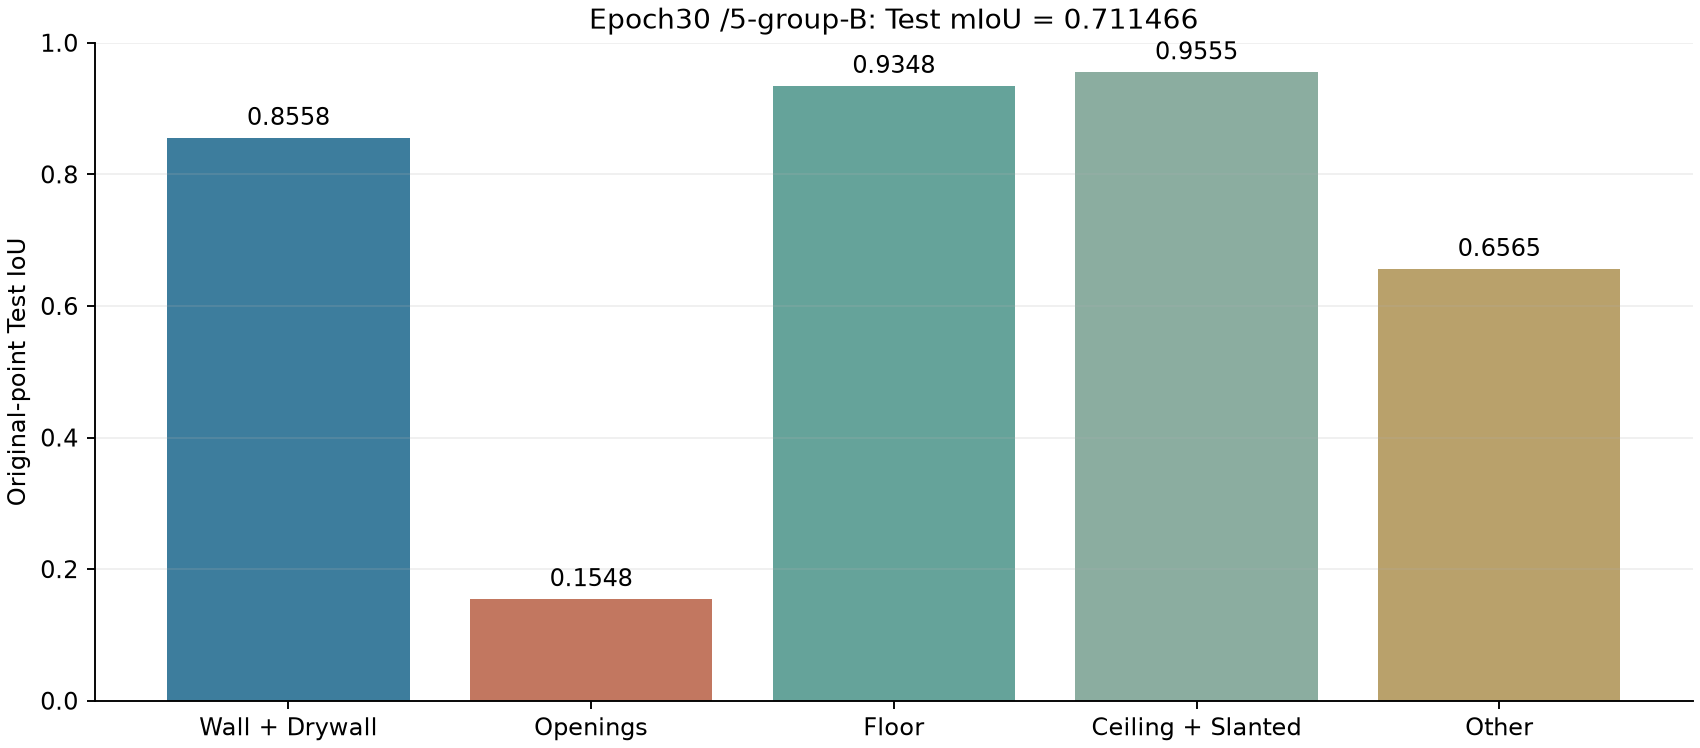
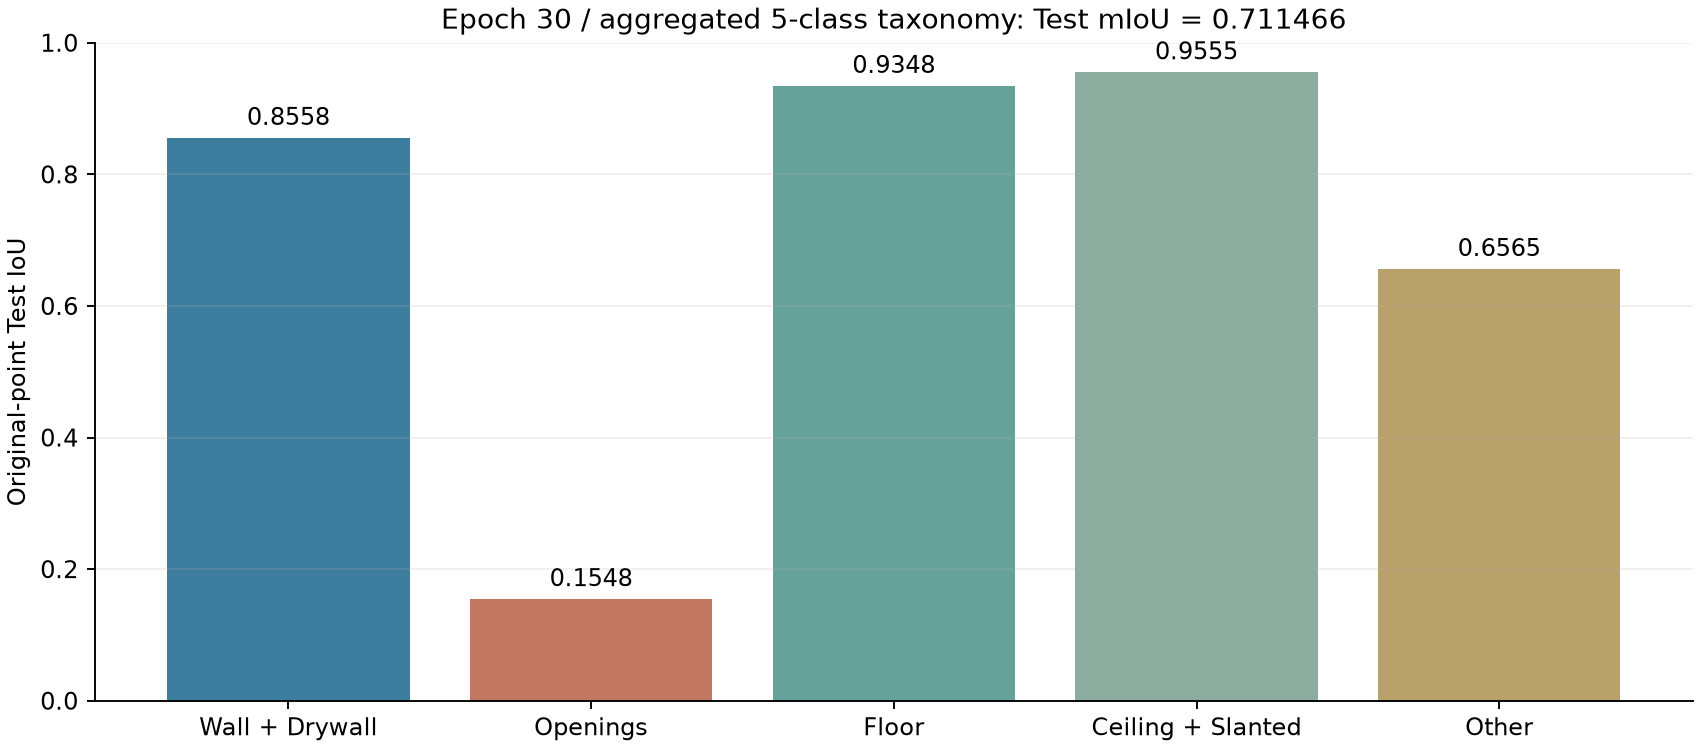
Name the evaluation taxonomy aggregated 5-class throughout the release

Changed region(s): [[0.2494, 0.0, 0.8106, 0.0615]]

diff --git a/README.md b/README.md
@@ -1,6 +1,6 @@
 # Construction Robot Work-Surface Recognition
 
-Semantic segmentation of construction-site point clouds for identifying work surfaces and exclusion regions for **plastering and painting robots**. The published checkpoint is **epoch 30**, evaluated with **5-group-B**. Its full-Test mIoU is **0.711466**.
+Semantic segmentation of construction-site point clouds to identify work surfaces and exclusion regions for **construction robots, such as plastering and painting robots**. The published model checkpoint at **epoch 30** achieves a full-test **mean Intersection over Union (mIoU) of 0.711466**, evaluated using an **aggregated 5-class taxonomy** formed by merging the dataset’s original 18 classes.
 
 This is an offline point-cloud study, rather than a validated robot control or surface-readiness system.
 
@@ -26,7 +26,7 @@ The original benchmark scene assignments are unchanged. **Test is separated by s
 - **The model was not retrained with a 5-group loss.** Evaluation merges the 18-class argmax predictions and ground truth into the five groups below.
 - Epoch30 was fixed as the public checkpoint by the project owner. It was not automatically selected as the best Test result. See the [recipe](configs/recipe.json).
 
-## Final result: epoch 30 /5-group-B
+## Final result: epoch 30 / aggregated 5-class taxonomy
 
 Evaluation covers all **96 Test scenes and 2,294,339,698 original points**. Each IoU is calculated from the confusion matrix pooled across the complete Test split. The reported mIoU is the unweighted mean of the five group IoUs.
 
@@ -51,7 +51,7 @@ The Openings IoU is **0.154761**. The overall mean therefore does not establish 
 
 ![Validation performance through epoch 30](results/figures/learning_curve.png)
 
-Markers denote measured checkpoints only. Saved Validation predictions were regrouped into 5-group-B; this does not mean the model was trained with that grouping as its loss. These are Validation curves, not Test learning curves.
+Markers denote measured checkpoints only. Saved Validation predictions were regrouped according to the aggregated 5-class taxonomy; this does not mean the model was trained with that grouping as its loss. These are Validation curves, not Test learning curves.
 
 Test results had already been exposed before this user-requested additional evaluation. They should not be presented as a new, untouched final holdout. This semantic-only head does not produce instance masks or Mask AP.
 
@@ -70,7 +70,7 @@ For actual GPU evaluation, cache generation, and explicitly requested retraining
 
 ```text
 README.md / run.py   Overview and execution entry point
-configs/            Training recipe and 5-group-B definition
+configs/            Training recipe and aggregated 5-class taxonomy definition
 data/               Official scene memberships and class names
 src/                Head, cache/evaluation code, and attributed Utonia source
 checkpoints/        Published epoch 30 head only

diff --git a/docs/REPRODUCIBILITY.md b/docs/REPRODUCIBILITY.md
@@ -9,7 +9,7 @@ pip install -r docs/setup/requirements-metrics.txt
 python run.py verify-results
 ```
 
-This recomputes 5-group-B mIoU and group IoUs from the published full-Test confusion matrix. It does not execute GPU inference.
+This recomputes mIoU and group IoUs under the aggregated 5-class taxonomy from the published full-Test confusion matrix. It does not execute GPU inference.
 
 ## 2. Model environment
 
